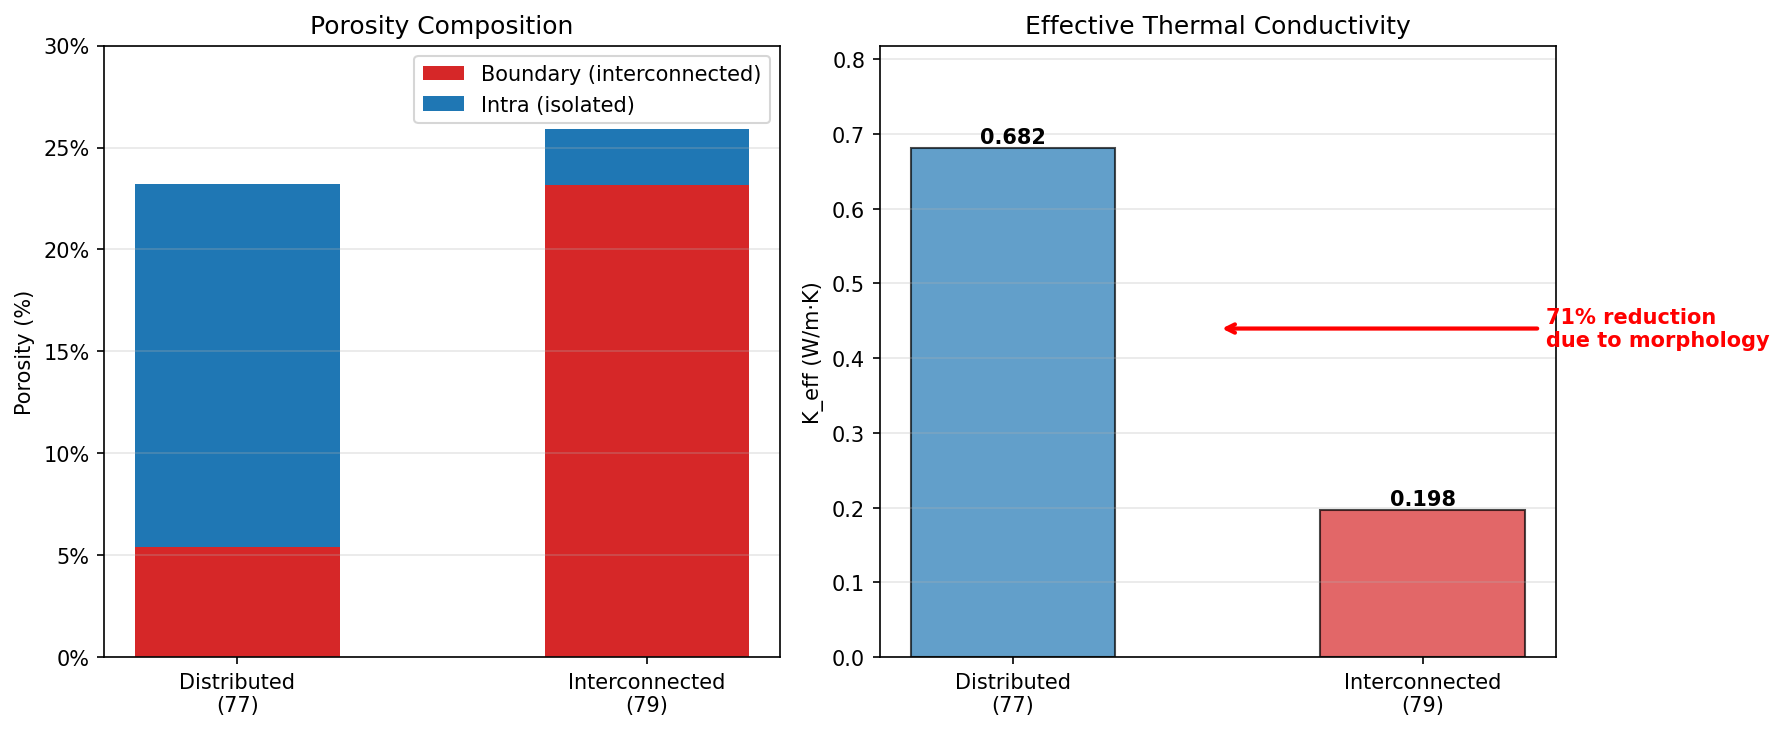
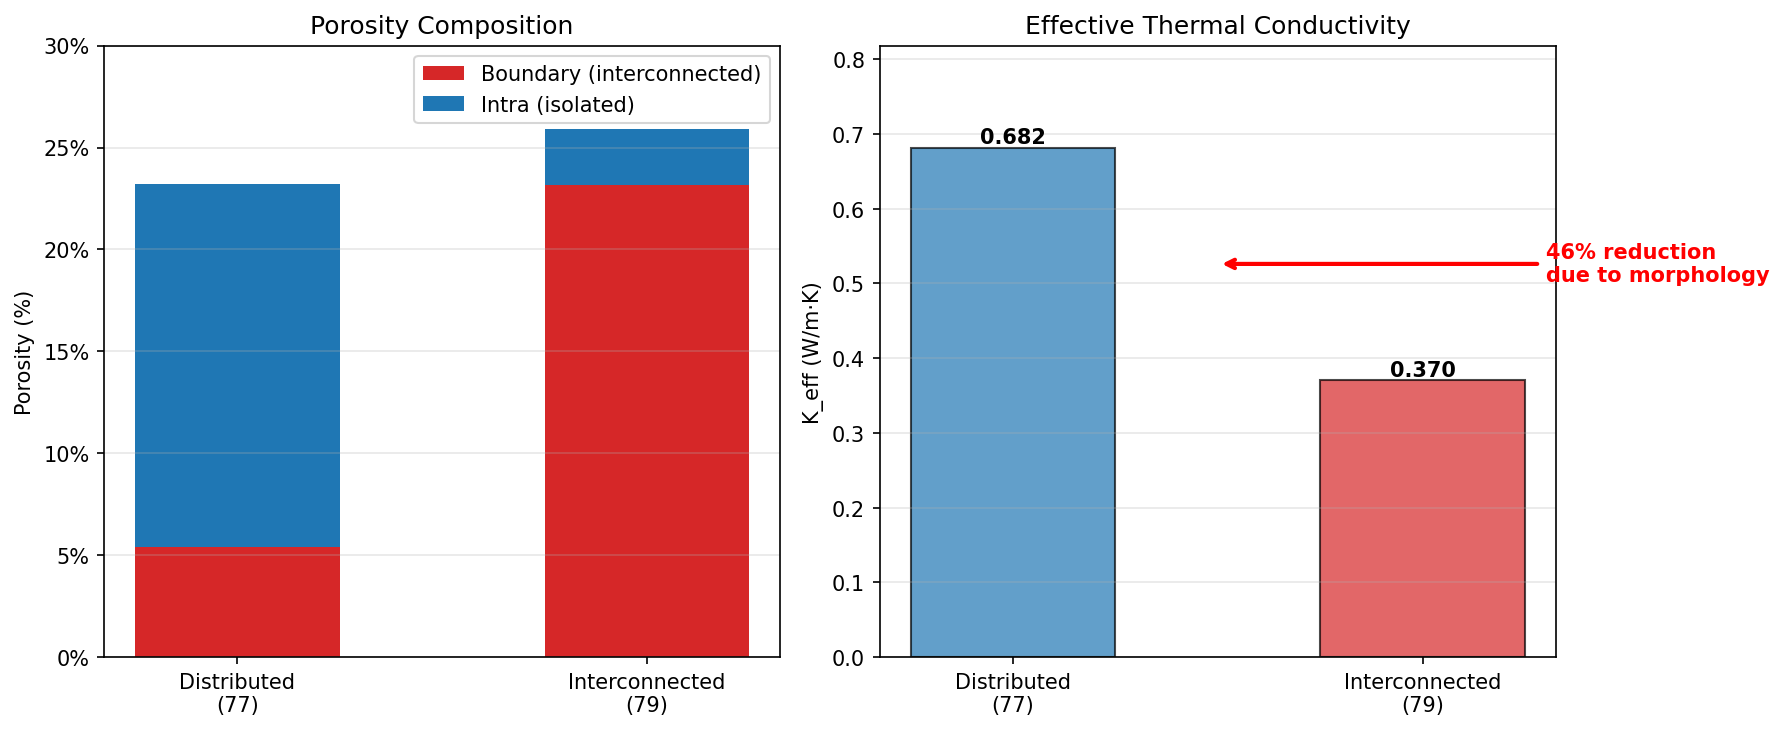
update

Changed region(s): [[0.7399, 0.4822, 0.8632, 0.7233], [0.6783, 0.4219, 1.0, 0.4822], [0.6783, 0.3315, 1.0, 0.3918]]

diff --git a/project_root/experiments/fit_correction_factor.py b/project_root/experiments/fit_correction_factor.py
@@ -21,7 +21,7 @@ import argparse
 # --- Constants ---
 ALPHA_LOEB = 1.37
 K_MATRIX = 1.0
-LAG_R = 3.0  # Grain radius used in run_keff_vs_delta.py for normalization
+# LAG_R will be read from CSV data
 
 def loeb_model(p, k_m=K_MATRIX, alpha=ALPHA_LOEB):
     """Classical Loeb model: K = k_m * (1 - alpha * p)."""
@@ -105,7 +105,15 @@ def recover_from_results(results_dir):
 def fit_all(df, output_dir):
     """Fits the sigmoidal model to each porosity group."""
     results = []
-    
+
+    # Read LAG_R from CSV data (should be consistent across all rows)
+    if "Grain_R" in df.columns:
+        LAG_R = df["Grain_R"].iloc[0]
+        print(f"Using L_grain = {LAG_R} from CSV data")
+    else:
+        LAG_R = 1.0  # Default fallback
+        print(f"Warning: Grain_R not found in CSV, using default L_grain = {LAG_R}")
+
     fig, ax = plt.subplots(figsize=(8, 6))
     colors = {0.1: "steelblue", 0.2: "darkorange", 0.3: "forestgreen"}
 
@@ -188,11 +196,12 @@ def plot_parameters(res_df, output_dir):
     plt.close(fig)
     print(f"Saved parameter analysis to {param_plot_path}")
 
-def plot_contour(res_df, output_dir):
+def plot_contour(res_df, output_dir, LAG_R=1.0):
     """Generates the contour plot of K(p, delta)."""
     # Use the linear fits of parameters to extrapolate a surface
     ps = np.linspace(0.05, 0.3, 50)  # Limited to 0.3 max porosity
-    deltas = np.linspace(0.067, 1.0, 50)  # Normalized: delta* = delta/LAG_R, range [0.2/3, 3.0/3]
+    # Normalized delta* range: adjust based on actual LAG_R
+    deltas = np.linspace(0.1, 1.0, 50)  # Normalized: delta* = delta/LAG_R
     P, D = np.meshgrid(ps, deltas)
     
     # Linear fits for each parameter
@@ -293,8 +302,10 @@ def main():
 
     res_df = fit_all(df, out_dir)
     if not res_df.empty:
+        # Extract LAG_R from data
+        LAG_R = df["Grain_R"].iloc[0] if "Grain_R" in df.columns else 1.0
         plot_parameters(res_df, out_dir)
-        plot_contour(res_df, out_dir)
+        plot_contour(res_df, out_dir, LAG_R=LAG_R)
         res_df.to_csv(out_dir / "fitted_parameters.csv", index=False)
         print(f"\nResults saved to {out_dir}")
 

diff --git a/project_root/experiments/compare_optimization_results.py b/project_root/experiments/compare_optimization_results.py
@@ -100,8 +100,22 @@ def main():
     p_i = results["connected_79"]["p_intra"]
 
     # Read optimized delta from Results_Optimization_Interconnected/summary.txt
-    LAG_R = 3.0  # Grain radius for normalization
+    # and LAG_R from Results_Keff_vs_Delta/keff_vs_delta.csv
     delta_abs = 0.390  # Default from previous optimization
+    LAG_R = 1.0  # Default grain radius
+
+    # Read LAG_R from keff_vs_delta.csv
+    csv_path = Path("Results_Keff_vs_Delta/keff_vs_delta.csv")
+    if csv_path.exists():
+        try:
+            df_lagr = pd.read_csv(csv_path)
+            if "Grain_R" in df_lagr.columns:
+                LAG_R = df_lagr["Grain_R"].iloc[0]
+                print(f"Read L_grain = {LAG_R} from {csv_path}")
+        except Exception as e:
+            print(f"Warning: Could not read Grain_R from CSV: {e}")
+    else:
+        print(f"Warning: {csv_path} not found, using default L_grain = {LAG_R}")
 
     summary_path = Path("Results_Optimization_Interconnected/summary.txt")
     if summary_path.exists():
@@ -115,7 +129,7 @@ def main():
                         pass
 
     delta = delta_abs / LAG_R  # Normalize: delta* = delta / L_grain
-    print(f"Using delta = {delta_abs:.3f} (absolute) → delta* = {delta:.3f} (normalized)")
+    print(f"Using delta = {delta_abs:.3f} (absolute) → delta* = {delta:.3f} (normalized with L_grain={LAG_R})")
     print()
 
     # Correction factor parameters (fitted with normalized delta*)
